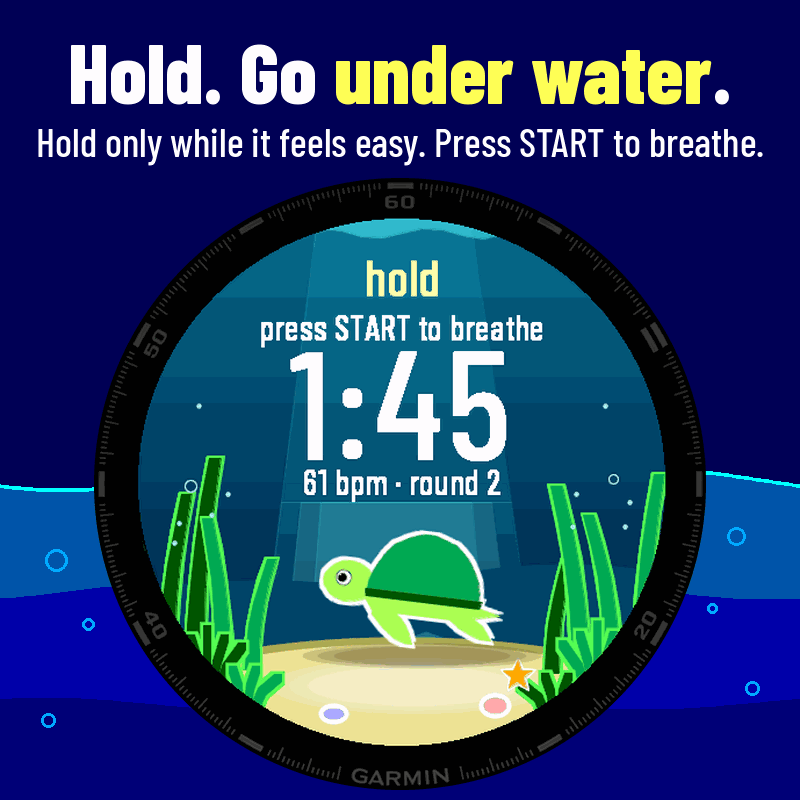
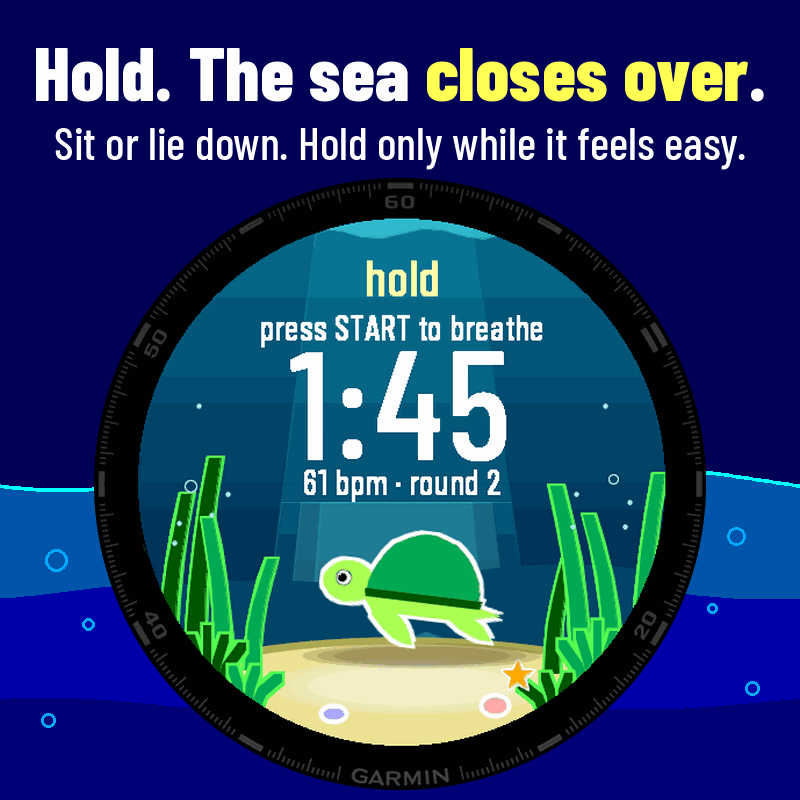
Gijs: run 71, frisse keuring winkelbeelden (7,5, nee), drie MOET-punten verwerkt in kaart 1, 2 en 4, script maak_winkel_v6.py
Claude-Session: https://claude.ai/code/session_01RMWUyhhJBGNNHVb7ub2a2d

Changed region(s): [[0.0312, 0.0312, 0.9688, 0.2188]]

diff --git a/platformen/garmin/maak_winkel_v6.py b/platformen/garmin/maak_winkel_v6.py
@@ -1,0 +1,34 @@
+# Winkelbeelden Ebb v6 (Gijs, run 71, 12 nov 2026, na de frisse keuring van het uiterlijk: kaart 1 een ander beeld dan
+# de poster, kaart 2 geen opdracht om onder water te gaan, kaart 4 geen vraag die het scherm zelf al beantwoordt).
+# Verder gelijk aan v5 (Gijs, run 63, 12 nov 2026; nummer 5 van besluit Thijs 11:50): poster en vijf kaarten uit de
+# echte schermen met de werelden in de ademsessie. Tekent niets zelf: gebruikt Mila's poster_v4.py en winkel_v4.py
+# (ontwerp/garmin/bron op main) met de opnames van de fenix 8 47 mm uit de plaatjesrun (map namen/).
+# Belooft nergens dat elk dier een eigen wereld heeft; geen timer van het inhouden op de poster (besluit 11 nov 23:25).
+#   python3 maak_winkel_v6.py <ontwerp/garmin/bron> <map met de beelden op naam> <uitmap>
+import sys, os
+bron, m, uit = sys.argv[1], sys.argv[2], sys.argv[3]
+sys.path.insert(0, bron)
+import winkel_v4
+H = 'fenix847mm'
+def beeld(naam):
+    p = os.path.join(m, '%s-%s.png' % (naam, H))
+    if not os.path.exists(p):
+        sys.exit('ONTBREEKT: ' + p)
+    return p
+KAARTEN = [
+    ('sessie-krab-uit-dag', '1-breathe.png', 'Breathe with the sea.', 'the sea', 'In, the sea rises. Out, it sinks. Your sea friend floats along.'),
+    ('sessie-schild-hold-dag', '2-hold.png', 'Hold. The sea closes over.', 'closes over', 'Sit or lie down. Hold only while it feels easy.'),
+    ('calm-einde-krab', '3-new-friend.png', 'Come back. Meet a crab.', 'crab', 'New sea friends for sessions and weeks in a row.'),
+    ('sealog-1', '4-sea-log.png', 'Fill your sea log.', 'sea log', '24 sea friends to find. See what the next one needs.'),
+    ('einde-sea-complete', '5-sea-complete.png', 'Find all 24.', 'all 24', 'Your sea is complete. Your weeks keep counting.')]
+for naam, uitnaam, kop, geel, onder in KAARTEN:
+    winkel_v4.kaart(beeld(naam), kop, geel, onder, os.path.join(uit, uitnaam))
+code = open(os.path.join(bron, 'poster_v4.py')).read()
+assert "'Hold your breath.'" in code
+code = code.replace("'Hold your breath.'", "'Breathe.'").replace('os.path.abspath(__file__)', repr(os.path.join(os.path.abspath(bron), 'poster_v4.py')))
+ruimte = {'__name__': 'poster_v5'}
+exec(compile(code, 'poster_v4.py', 'exec'), ruimte)
+ruimte['poster'](beeld('sessie-krab-in-dag'), os.path.join(uit, '0-poster-v5.png'))
+for f in sorted(os.listdir(uit)):
+    if f.endswith('.png'):
+        print(f, os.path.getsize(os.path.join(uit, f)), 'bytes', '(boven 150 KB!)' if os.path.getsize(os.path.join(uit, f)) > 150000 and not f.startswith('0-') else '')

diff --git a/ontwerp/garmin/ebb-winkel-echt-keuring-2026-11-12.md b/ontwerp/garmin/ebb-winkel-echt-keuring-2026-11-12.md
@@ -1,0 +1,44 @@
+# Ebb winkelbeelden v5 uit de echte schermen: frisse keuring van het uiterlijk (12 nov 2026, run 71 van Gijs)
+
+Gekeurd door een frisse hulp-agent in de rol van Daan, die het werk niet eerder zag. Opgeslagen door Gijs; de punten zijn van de keurder, licht ingekort. Onderaan staat wat Gijs er dezelfde run mee deed.
+
+**Akkoord winkelbeelden: nee.** De set krijgt een 7,5, de lat is een 8. Met MOET 1 tot 3 gedaan komt de keurder op een 8.
+
+Bekeken: alle zes de beelden in `ontwerp/garmin/winkel-echt/` op volle grootte, op 300 px en op 150 px. Gelezen: de rol van de ontwerper, de eerdere keuring en winkeltekst versie 19.
+
+## Per beeld
+
+- **0-poster-v5.png: 8.** Goed: "Breathe. Make sea friends." zegt in vier woorden wat het is; de kop is op 150 px nog leesbaar; de krab met zwemband trekt het oog; de krans telt precies 24 dieren; geen timer van het inhouden; de prijsregel klopt. Niet goed: de prijsregel is klein (op 150 px niet te lezen); de dieren in de krans zijn op 300 px stipjes; de poster laat alle 24 dieren al zien terwijl kaart 4 er een geheim van maakt.
+- **1-breathe.png: 6,5.** Schoon en leesbaar, maar het scherm is hetzelfde beeld als op de poster. De kop zegt dat de zee stijgt en één stilstaand beeld laat dat niet zien.
+- **2-hold.png: 7.** Het mooiste scherm van de set (lichtbundel, zeewier, zand, schildpad). Niet goed, veiligheid: de kop "Hold. Go under water." leest als een opdracht om onder water te gaan, terwijl de winkeltekst zegt "never in or near water". "Press START to breathe" staat er twee keer. "1:45" is het grootste element op de kaart; het wordt niet gevierd, maar klein gezien is dit de kaart met een tijd erop.
+- **3-new-friend.png: 7.** De kop "Come back. Meet a crab." is leuk en eerlijk; dieren komen door terugkomen. Niet goed: het saaiste beeld terwijl het de beloning verkoopt (bovenste helft zwart, krab klein); de krab zwemt op poster en kaart 1 al mee en wordt hier pas ontmoet; de drie stipjes zeggen een koper niets; de ondertitel is houterig.
+- **4-sea-log.png: 7,5.** De schaduwen zijn sterk en "5 more weeks in a row" is eerlijk. Niet goed: de ondertitel vraagt "Who is that shadow?" en het scherm zegt er direct onder "Pufferfish"; onderaan een lichtgeel boogje dat door de rand wordt afgesneden. Vraag: vijf bladstipjes bij 24 dieren van zes per blad.
+- **5-sea-complete.png: 8.** Goede afsluiter, valt ook klein op; viert trouw, niet inhoudtijd. Niet goed: dieren klein niet te herkennen; derde keer dat de koper alle dieren ziet.
+
+## De zes samen: 7,5
+
+De volgorde klopt (ademen, inhouden, vriend erbij, verzamelen, compleet). "Waarom betalen" staat alleen in het kleine regeltje onder de poster. Calm 4-7-8 en trillen met je ogen dicht staan op geen enkele kaart. Eén familie, alle koppen leesbaar op 150 px, geen spelfouten. Eerlijkheid: geen kaart zegt dat elk dier een eigen wereld heeft, nergens wordt inhoudtijd gevierd. Geen afgesneden tekst of dieren over tekst.
+
+## MOET (voor de lancering)
+
+1. Kaart 2: de kop mag geen opdracht zijn om onder water te gaan; "Sit or lie down" erbij; de dubbele "Press START to breathe" weg.
+2. Kaart 1: een ander beeld dan de poster, bijvoorbeeld "breathe out" met de zee laag.
+3. Kaart 4: de tegenspraak tussen schaduw en naam weg.
+4. De pixelvergelijking afmaken (staan de schermen van de kaarten gelijk aan de code van nu).
+
+## KAN (later)
+
+Kaart 2 met een kortere tijd (onder de minuut). Kaart 3 een levendiger eindscherm en een vlottere ondertitel ("Sea friends come with sessions and weeks in a row."). Poster: prijsregel een maat groter, dieren in de krans groter of minder. Eén kaart voor Calm 4-7-8 of voor "eyes closed, follow the vibration". Kaart 4: het gele boogje weg. Ondertitels een maat groter.
+
+## Niet bekeken door de keurder
+
+De echte winkelpagina en hoe Garmin de beelden verkleint; de app en de code; of de getallen in de scènes kloppen met de regels van de app; de beelden naast concurrenten; het icoon; of de bestanden gelijk zijn aan die in `producten/garmin-adem/winkel/`.
+
+## Wat Gijs ermee deed (run 71, 12 nov 19:20 UTC)
+
+- MOET 1: kaart 2 heeft nu de kop "Hold. The sea closes over." en de ondertitel "Sit or lie down. Hold only while it feels easy."
+- MOET 2: kaart 1 gebruikt nu het beeld "breathe out" (scène `sessie-krab-uit-dag`), kop "Breathe with the sea.", ondertitel "In, the sea rises. Out, it sinks. Your sea friend floats along."
+- MOET 3: kaart 4 heeft de ondertitel "24 sea friends to find. See what the next one needs."
+- MOET 4: gedaan in dezelfde run, zie status 19:10. De schermen van de kaarten zijn pixel voor pixel gelijk tussen 3bc2008 en 9b0879b3.
+- De drie nieuwe kaarten zijn gemaakt uit de volle ronde op 9b0879b3 (tak `schermen` commit 254c20e3) met `platformen/garmin/maak_winkel_v6.py`, door Gijs bekeken, en staan in `ontwerp/garmin/winkel-echt/`. Poster, kaart 3 en kaart 5 zijn byte voor byte gelijk gebleven.
+- **Nog niet opnieuw gekeurd.** Akkoord is dus nog steeds nee tot een frisse keurder de nieuwe set een 8 geeft. De KAN-punten zijn niet gedaan.
